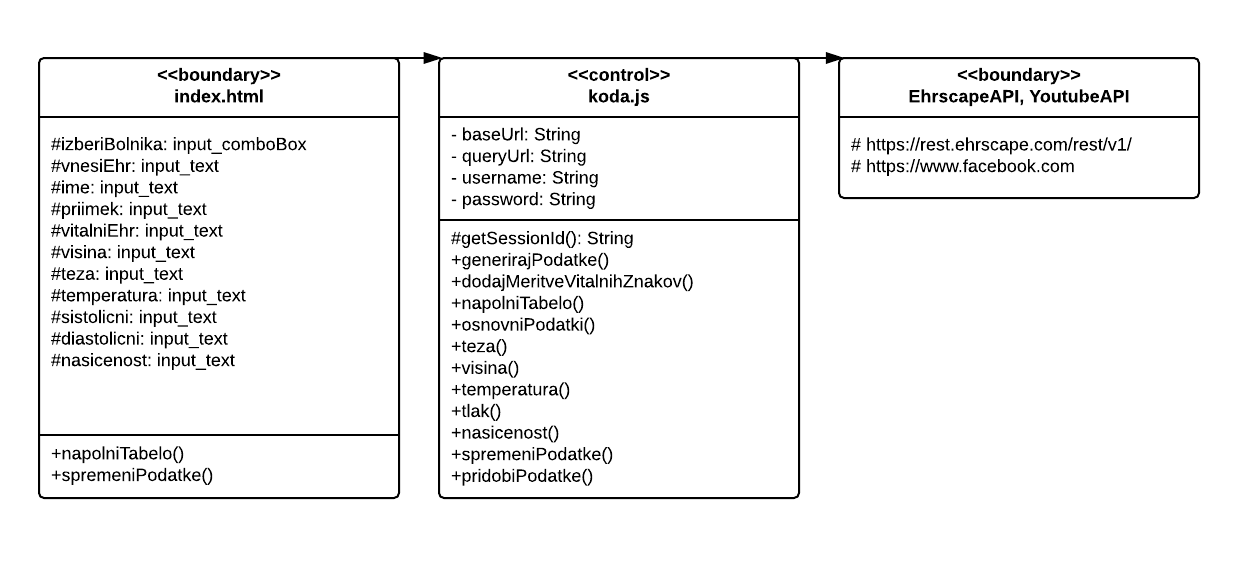
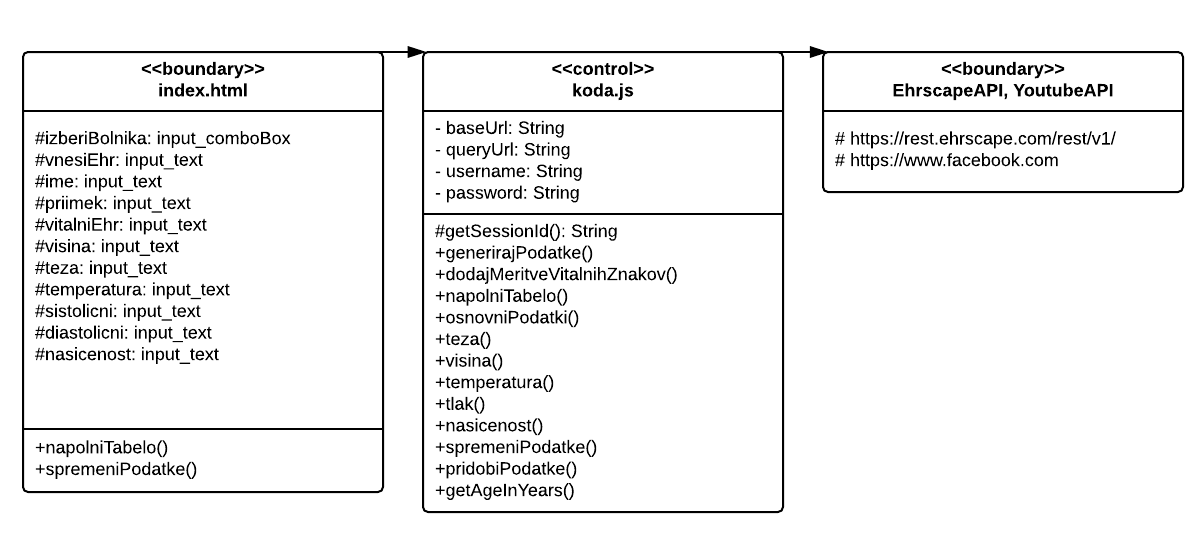
diagram3

Changed region(s): [[0.0, 0.0911, 0.985, 0.9411]]

diff --git a/opis.html b/opis.html
@@ -47,7 +47,7 @@
             <!-- ZAČETEK: Opis ideje, ki jo aplikacija podpira -->
             <p align="left">Aplikacija Zdravstveni kotiček je namenjena vsakemu, ki bi rad spremljal svoje zdravstveno in telesno stanje, primerjal svoje rezultate z drugimi in prebiral novice iz sveta zdravja. Ideja aplikacije je torej uporabniku nuditi čim več informacij o zdravju na enem mestu.<p align="left">
 			Zdravstveni kotiček omogoča uporabniku, da zase ali pa za prijatelja vnese ustrezno EHR številko, nato pa mu aplikacija vrne podatke o nazadnje izmerjeni višini, teži, temperaturi, tlaku ipd. Seveda lahko uporabnik spreminja na novo izmerjene podatke, tako da so v bazi aktivno spremljajočega uporabnika, vedno shranjene najbolj aktualne meritve.<p align="left">
-			Aplikacija pa poskrbi tudi za nekaj motivacije oz. možnosti primerjave z drugimi. Aplikacija namreč primerja težo uporabnika s svetovnim povprečjem (vir WHO), tako da lahko uporabnik vidi, kakšna je njegova teža glede na svetovno povprečje in podatek upošteva pri svoji prehrani in gibanju.<p align="left">
+			Aplikacija omogoča tudi uporabniku, da grafično primerja svojo starost s povprečjem svetovne populacije (po izračunu Svetovne zdravstvene organizacije). Funkcija sicer ni zelo koristna, se mi je pa zdela dovolj zanimiva za popestritev zdravstvenega kotička.<p align="left">
 			Seveda pa zdravstveni kotiček brez aktualnih novic s področja zdravja ne gre, zato ima aplikacija implementirano še facebook stran Svetovne zdravstvene organizacije (WHO), da lahko uporabnik dnevno prebira novosti iz sveta zdravja.<p class="text-muted"></p>
             <!-- KONEC: Opis ideje, ki jo aplikacija podpira -->
           </div>
@@ -80,7 +80,7 @@
           </div>
           <div class="panel-body">
             <!-- ZAČETEK: Uporabljeni zunanji viri podatkov -->
-            <p>Kot primer vizualizacije, aplikacija vsebuje tortni diagram, na katerem je uporabniku prikazana njegova teža in teža svetovnega povprečja po raziskavah Svetovne zdravstvene organizacije. Tako uporabnik vidi, kako se primerja z ostalimi prebivalci Sveta. Tako tehniko sem izbral, saj se mi zdi, da se da diagram najlepše prikaže razmerje med obema težama.</p>
+            <p>Kot primer vizualizacije, aplikacija vsebuje tortni diagram, na katerem je uporabniku prikazana njegova starost in starost svetovnega povprečja po raziskavah Svetovne zdravstvene organizacije. Tako uporabnik vidi, kako se primerja z ostalimi prebivalci Sveta. Tako tehniko sem izbral, saj se mi zdi, da se da diagram najlepše prikaže razmerje med obema starostima.</p>
             <!-- KONEC: Uporabljeni zunanji viri podatkov -->
           </div>
         </div>

diff --git a/nacrt.html b/nacrt.html
@@ -69,9 +69,9 @@
           </div>
           <div class="panel-body">
             <!-- ZAČETEK: Diagram zaporedja -->
-            <p><strong>TO-DO</strong>: Na tem mestu je potrebno dodati <strong>1 diagram zaporedja</strong>, ki mora predstavljati podrobno implementacijo osnovega toka dogodkov ene izmed vaših glavnih funkcionalnosti, ki ste jo identificirali na primeru uporabe (glej diagram primerov uporabe).</p>
-            <img src="http://sandbox.lavbic.net/teaching/OIS/gradivo/DZ-dummy.png">
-            <p class="text-muted">Diagram lahko pripravite s pomočjo orodja <a href="https://www.lucidchart.com/" target="_blank">Lucid Chart</a> ali ga narišete na papir in ga slikate ter oddate kot sliko.</p>
+            
+            <img style="max-height: 100%; max-width: 100%" src="zaporedje.png">
+            
             <!-- KONEC: Diagram zaporedja -->
           </div>
         </div

diff --git a/index.html b/index.html
@@ -17,7 +17,7 @@
   <script src="knjiznice/js/jquery.powertip.min.js"></script>
 
 </head>
-<body>
+<body background="ozadje.jpg">
   <div id="fb-root"></div>
   <script>(function(d, s, id) {
     var js, fjs = d.getElementsByTagName(s)[0];
